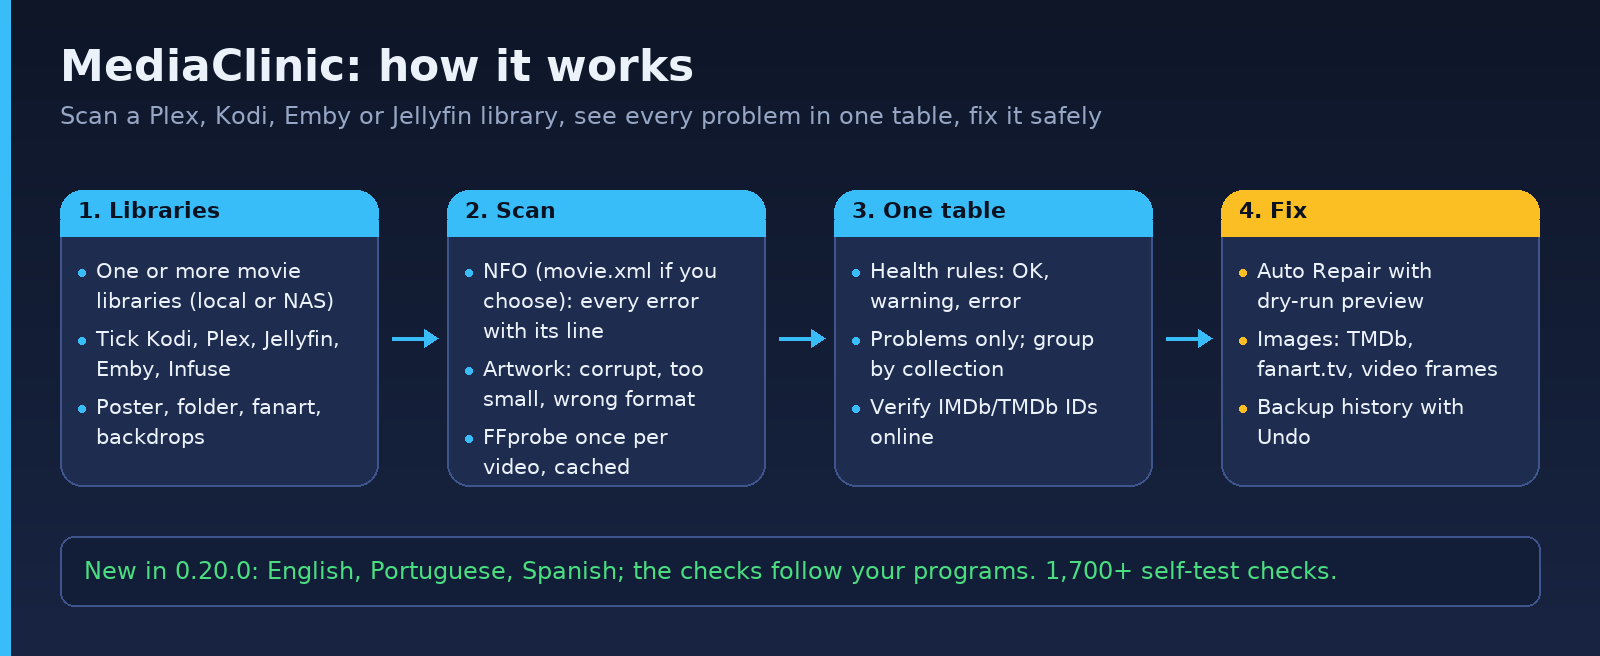
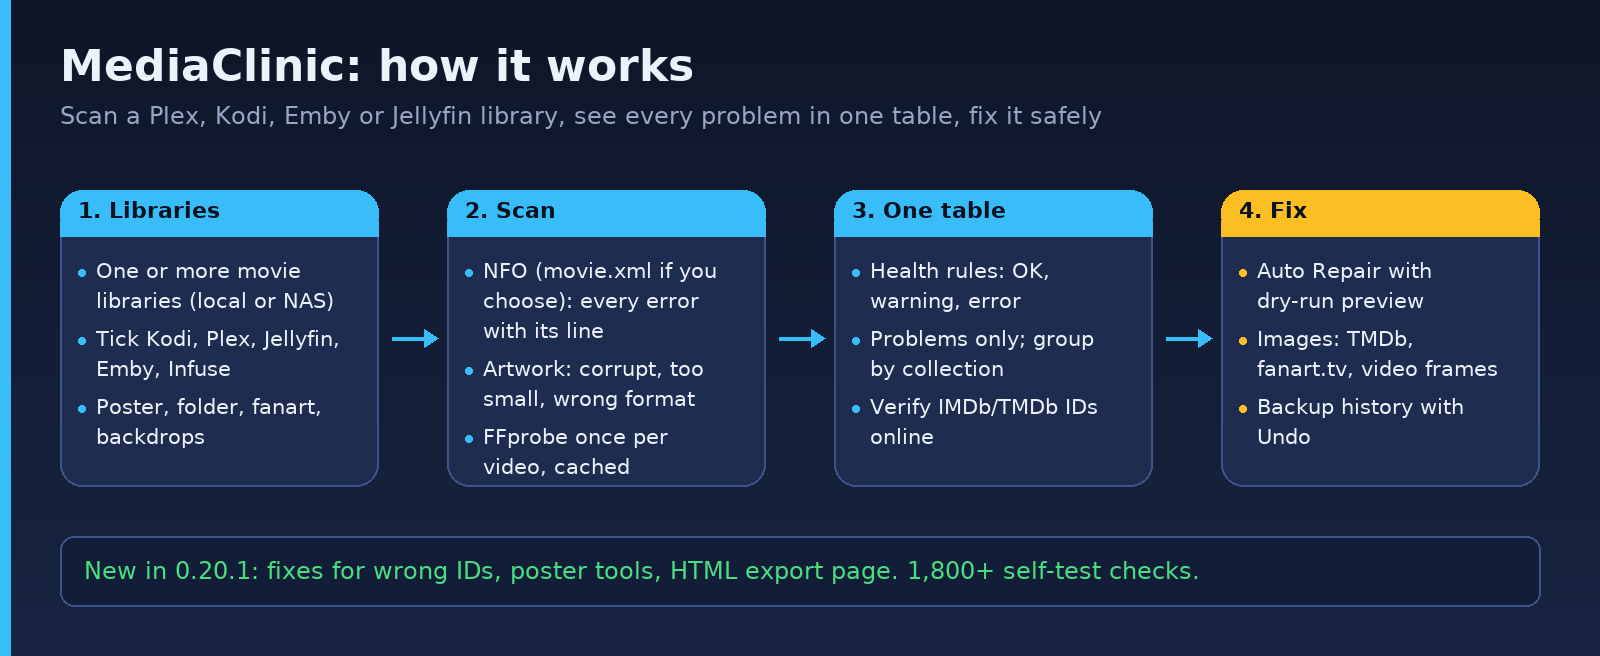
MediaClinic v0.20.1: README, changelog, screenshots and social image

Changed region(s): [[0.125, 0.8537, 0.8438, 0.8841]]

diff --git a/README.md b/README.md
@@ -6,15 +6,15 @@
 
 <p align="center"><img src="docs/screenshots/mediaclinic.png" alt="MediaClinic screenshot" width="900"></p>
 
-**Download for Windows:** get `MediaClinic-0.20.1-win64.zip` (about 33 MB) from the [latest release](https://github.com/junqueirach/mediaclinic/releases/latest). Unzip it to a folder you can write to (not `C:\Program Files`), open the `MediaClinic` folder and double-click `MediaClinic.exe`. No Python needed. The SHA-256 checksum is in the release notes.
+**Download for Windows:** get `MediaClinic-0.20.1-win64.zip` (about 35 MB) from the [latest release](https://github.com/junqueirach/mediaclinic/releases/latest). Unzip it to a folder you can write to (not `C:\Program Files`), open the `MediaClinic` folder and double-click `MediaClinic.exe`. No Python needed. The SHA-256 checksum is in the release notes.
 
-**New in v0.20.1:** warnings that say what to do, and a fix behind every one. A TMDB number in an IMDb field (Emby and FileBot write this) is one clear warning with the right ID, and **Fix Wrong IMDb / TMDB IDs** corrects it for one movie, a selection or the whole library without adding a tag. The **Tools menu is grouped** (Reports, IDs, Ratings & Genres, Collections, NFO & File Names, Artwork), with **Fix one issue — All Movies**, **Add `<uniqueid>` for Kodi**, a tick box per Auto Repair step, and Pause in the bulk tools. Posters: **Replace Low-Resolution Posters**, **Review Posters One by One** and an artwork language setting. For Kodi: actor photos in `.actors`, an Extra art column and `set.nfo` for collections. The **HTML export** is a new page with five layouts, six themes, search, filters and a phone layout. Keyboard shortcuts for the everyday actions (Alt+P, Alt+I, F3, Ctrl+Z …; *Help → Shortcuts*), a Help that is easier to read, and three fixes from a tester with a NAS: Check for Updates from the Help window, the start-up after an update, and the program ending completely when you close it. The default for ID tags in the NFO is now `<uniqueid>` only. See the [changelog](CHANGELOG.md).
+**New in v0.20.1:** warnings that say what to do, and a fix behind every one. A TMDB number in an IMDb field (Emby and FileBot write this) is one clear warning with the right ID, and **Fix Wrong IMDb / TMDB IDs** corrects it for one movie, a selection or the whole library without adding a tag. The **Tools menu is grouped** (Reports, IDs, Ratings & Genres, Collections, NFO & File Names, Artwork), with **Fix one issue — All Movies**, **Add `<uniqueid>` for Kodi**, a tick box per Auto Repair step, and Pause in the bulk tools. Posters: **Replace Low-Resolution Posters**, **Review Posters One by One** and an artwork language setting. For Kodi: actor photos in `.actors`, an Extra art column and `set.nfo` for collections (Fix Collection writes it too, and a collection can be refreshed). **You see when the app is working:** while it writes or reads files again, a ring turns on the poster of the movie or collection, a thin bar moves above the table and the status bar says what it does, then ✓ Done or ! Not done. **Auto Repair says what it does** ("Fix 3 of 5 at once", with the fixes named), and the text in every window breaks to the window's width. The **HTML export** is a new page with five layouts, six themes, search, filters and a phone layout. Keyboard shortcuts for the everyday actions (Alt+P, Alt+I, F3, Ctrl+Z …; *Help → Shortcuts*), a Help that is easier to read, and three fixes from a tester with a NAS: Check for Updates from the Help window, the start-up after an update, and the program ending completely when you close it. The default for ID tags in the NFO is now `<uniqueid>` only. See the [changelog](CHANGELOG.md).
 
 **In v0.20.0:** the whole app in English, Portuguese (Brazil) and Spanish (*Settings → User Interface → Interface language*). Health presets (Easy / Medium / Tight) set every rule at once. The checks follow what Kodi really reads (`<uniqueid>`, multi-part movies such as `Movie-CD1.mkv` + `Movie-CD2.mkv` with `Movie.nfo`, a folder's only NFO), and a tag holding something that is not an ID is reported and repaired. New tools: remove the online artwork links from an NFO (only for artwork you have as files), check your genres against TMDB, export the movie list as one HTML page with poster thumbnails, and turn a library off without removing it. If you trim your NFOs by hand, *Settings → Health Rules → NFO → ID tags written in the NFO → <uniqueid> only* keeps the app from adding other ID tags. **Tick the programs that play your movies** (Kodi, Plex, Jellyfin, Emby, Infuse, MediaBrowser / Media Center Master): the checks and the file names a fix writes follow them, based on tests on real Plex, Emby and Jellyfin servers and Infuse on an Apple TV; **Rename Files for My Programs** and **Convert movie.xml → NFO** do the switch for you, with Undo. A one-page window at the first start asks for the language, your movies folder, your programs, the strictness and FFprobe. Many fixes from the Reddit testers.
 
 > **Windows SmartScreen:** the file is not code-signed, so Windows may show "Windows protected your PC". Click **More info**, then **Run anyway**. You can also run the app from source (see Quick start) and read every line of the code first.
 >
-> **VirusTotal:** a tester found two engines flagging the earlier exe with generic names. The flagged part was the PyInstaller loader that every Python exe built that way starts with, not the app: its code was byte-identical to the loader published on PyPI, the archive held only Python's standard library, the app's own modules, Pillow and openpyxl, and VirusTotal's sandboxes saw no network traffic or dropped files. Since the third build of v0.19.5 the exe is compiled with Nuitka (the Python code becomes C), which has no such loader: that build scored 0 of 69 on VirusTotal, the v0.19.6 exe 0 of 71 and the v0.20.0 exe 0 of 70. The release notes carry the SHA-256 of the zip and of the exe.
+> **VirusTotal:** a tester found two engines flagging the earlier exe with generic names. The flagged part was the PyInstaller loader that every Python exe built that way starts with, not the app: its code was byte-identical to the loader published on PyPI, the archive held only Python's standard library, the app's own modules, Pillow and openpyxl, and VirusTotal's sandboxes saw no network traffic or dropped files. Since the third build of v0.19.5 the exe is compiled with Nuitka (the Python code becomes C), which has no such loader: that build scored 0 of 69 on VirusTotal, the v0.19.6 exe 0 of 71, the v0.20.0 exe 0 of 70 and the v0.20.1 exe 0 of 62. The release notes carry the SHA-256 of the zip and of the exe.
 
 ## Why MediaClinic exists
 
@@ -47,7 +47,7 @@ The result is a library that can look fine on screen while the files underneath 
   - **Movie collections**: a *Group by collection* view with one row per collection, *Check Collections Online* (TMDB), Fix, Set, Rename, Join and Remove from Collection, *Collection Artwork* to choose the set's poster and fanart, and Kodi's movie set information folder; a renamed collection takes its folder and images along, and Undo puts everything back
   - **Auto Repair** for one movie, a selection or the whole library, with a dry-run preview: IDs, ratings, genres, year, titles, collections and a bare `&` in the NFO; a movie's own artwork is never touched
   - **Fix one issue — All Movies**: runs one automatic fix on every movie that needs it; Auto Repair has a tick box per step, and the bulk tools can be paused
-  - **set.nfo for Kodi collections**: checked, written with each new collection folder, and *Check / Write set.nfo* for one collection or all
+  - **set.nfo for Kodi collections**: checked, written with each new collection folder and by Fix Collection, with a Fix button beside the warning and *Check / Write set.nfo* for one collection or all; *Refresh Collection* reads a collection again
 - **Names and formats that not every program reads**
   - **Rename Files for My Programs**: gives the NFO, poster and fanart the names every ticked program reads (for example `movie.nfo` → `<video>.nfo` for Infuse), with a preview, a backup and Undo; the video is never renamed
   - **Convert movie.xml → NFO**: for movies that have only a Media Center Master / MediaBrowser `movie.xml`, writes an NFO with title, year, rating, IDs, actors and genres; `movie.xml` stays, Undo removes the NFO
@@ -66,7 +66,7 @@ The result is a library that can look fine on screen while the files underneath 
   - **Export Movie List** to CSV, text, Excel or one self-contained HTML page (five layouts, six themes, search, filters, a detail view; posters inside the file, in a folder, as links or none), with column presets (including *Identify*: IMDB and TMDB links plus outline) and the option to export only the filtered view
 - **Safe edits**
   - **Backup History / Undo**: every backup records what it changed, and a whole run can be restored
-  - Every NFO/XML is backed up silently and written atomically, TMDb/OMDb calls are rate-limited and retried, API keys are kept out of the log, with automatic backup folder maintenance; rows refresh automatically after each change
+  - Every NFO/XML is backed up silently and written atomically, TMDb/OMDb calls are rate-limited and retried, API keys are kept out of the log, with automatic backup folder maintenance; rows refresh automatically after each change, and an activity indicator (a ring on the poster, a bar above the table, a status line) shows the write and the refresh until they are done
   - Keyboard shortcuts for the everyday actions (a Shortcuts tab in the Help lists them), jump-to-letter, sortable columns, remembered window sizes and positions, rotating logs
 
 See [What it checks](#what-it-checks) for every rule behind these findings.
@@ -149,9 +149,9 @@ This project is the clearest example of working with an AI under a written contr
 
 - [`docs/CLAUDE_RULES.md`](docs/CLAUDE_RULES.md) defines module boundaries, the save chain, naming rules and a safety checklist that every AI-edited change must respect
 - `settings_schema.json` plus `tests/settings_test_harness.py` check the settings subsystem after every change
-- `tests/selftest_v0_20_0.py` builds a synthetic library (NFO, XML, generated JPEGs and a real 3-second MKV) and runs about 1,700 end-to-end checks, from health rules to Auto Repair and the export dialogs (TMDb calls are simulated); it runs in CI under a virtual display (checks that need Windows, such as the registry, backslash paths and the AI upscaler, are skipped on Linux) and never touches your real settings
+- `tests/selftest_v0_20_1.py` builds a synthetic library (NFO, XML, generated JPEGs and a real 3-second MKV) and runs about 1,800 end-to-end checks, from health rules to Auto Repair and the export dialogs (TMDb calls are simulated); it runs in CI under a virtual display (checks that need Windows, such as the registry, backslash paths and the AI upscaler, are skipped on Linux) and never touches your real settings
 - The code is split into model, controller, context, dialog, export, help and genre-data modules so the AI can edit one part without breaking another
-- About 47,600 lines of Python in seventeen modules (the three Help languages and the text catalog `mc_i18n.py` among them); 40 versions in total, the earlier ones in `archive/versions/`, starting from a 12 KB folder scanner
+- About 55,500 lines of Python in 25 modules (the three Help languages and the text catalog `mc_i18n.py` among them); 41 versions in total, the earlier ones in `archive/versions/`, starting from a 12 KB folder scanner
 - Changes per version are in [CHANGELOG.md](CHANGELOG.md)
 
 ---

diff --git a/CHANGELOG.md b/CHANGELOG.md
@@ -2,7 +2,7 @@
 
 All notable changes to MediaClinic. Dates are release dates. Earlier versions are kept as complete files in `archive/versions/`; their notes are in the `CHANGELOG` block at the top of `mediaclinic.py`.
 
-## v0.20.1 — (release date)
+## v0.20.1 — 2026-11-21
 
 Windows build and source. What the testers of v0.20.0 asked for: better tools for posters and IDs, a grouped Tools
 menu, and warnings that say what to do.
@@ -31,6 +31,10 @@ menu, and warnings that say what to do.
   light / dark, search, filters, a detail view, "What should we watch?", media flags, a phone layout and printing.
   Images inside the file, in a folder next to it, as online links, or none. Paths are private columns (off for HTML).
 - Bulk tools can be **paused** and resumed.
+- **Activity indicator:** while the app writes or reads files again, a ring turns on the poster of the movie or
+  collection it works on, a thin bar moves above the table and the status bar says what it does; then ✓ Done, or
+  ! Not done with the reason. The panel's buttons are grey meanwhile.
+- **Refresh Collection** in a collection's panel and right-click menu, and a **Fix** button beside the set.nfo warning.
 
 ### Changed
 - **Every warning leads to a fix that can solve it.** No Fix entry opens a report any more; existing tools are offered
@@ -43,6 +47,10 @@ menu, and warnings that say what to do.
 - TMDB posters are listed in the artwork language first (they were sorted by size only).
 - The clear logo / disc art rule of v0.20.0 is gone: extra artwork is information, never a warning.
 - The Help is restructured in all three languages (shorter paragraphs, tables, steps) and has "New in v0.20.1".
+- **The Auto Repair line says what it does:** "Fix all 3 at once" or "Fix 3 of 5 at once" with the fixes named; it
+  is not listed when it would only repeat the one fix shown (it said "Auto Repair can fix more" even then).
+- **Text breaks to the window's width** in every window, also when you make the window smaller; report and preview
+  windows wrap long lines.
 
 ### Fixed
 - **Check for Updates** opened from *Help → About* did not react to any button, also not Close.
@@ -63,9 +71,12 @@ menu, and warnings that say what to do.
 - **Backup History** does not restore while a poster review is open.
 - **Help:** the topics in the contents list start in one column ("Settings" and "About" sat further right).
 - The panel on the right says "No movie selected" from the start (it was empty until the first click).
+- **Fix Collection now writes the collection's set.nfo** (it wrote only the names, and a second Fix said "Nothing to
+  change" while set.nfo was missing); after a rename the collection folder is read again, so the panel shows the new
+  state; a set.nfo that is already there is filled, never overwritten.
 
 ### Build
-- Compiled with Nuitka. Self-test about 1,780 checks; 46 unit tests for the new modules; CI on Python 3.10 and 3.12.
+- Compiled with Nuitka. Self-test about 1,810 checks; 46 unit tests for the new modules; CI on Python 3.10 and 3.12.
 - The Actors and Extra art columns fill at the next **Full Scan**.
 
 ## v0.20.0 — 2026-11-17
